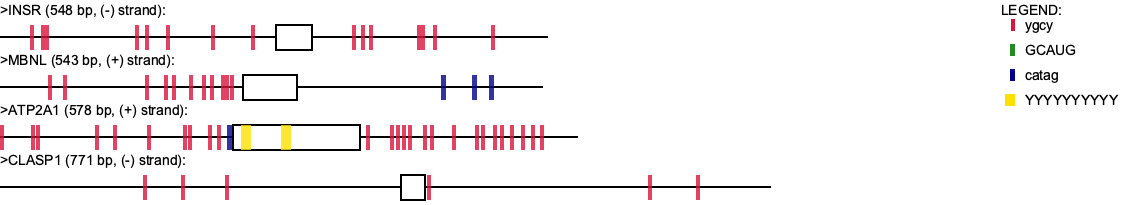
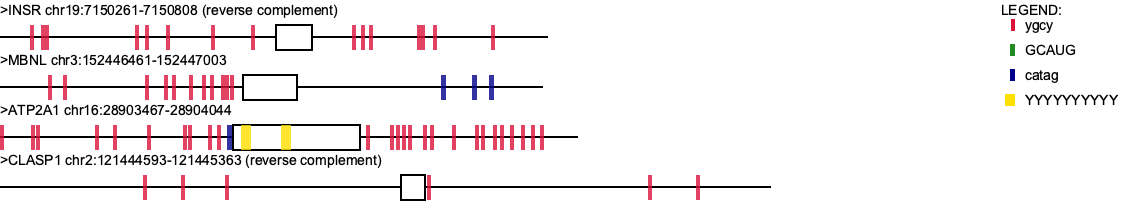
20250301

diff --git a/motif-mark.py b/motif-mark.py
@@ -14,27 +14,28 @@ FONTSIZE = 14
 HEADING_OFFSET = ROW_HEIGHT//5
 ROW_OFFSET = -ROW_HEIGHT//2 
 MARKDIMS = (4, EXON_HEIGHT)
+
 COLORS = [
-    (220/255, 20/255, 60/255),    # Crimson
-    (34/255, 139/255, 34/255),    # Forest Green
-    (0, 0, 139/255),      # Dark Blue
-    (255/255, 223/255, 0),    # Gold
-    (0, 255/255, 255/255),    # Cyan
-    (255/255, 0, 255/255),    # Magenta
-    (255/255, 165/255, 0),    # Orange
-    (128/255, 0, 128/255),    # Purple
-    (0, 128/255, 0),      # Dark Green
-    (186/255, 85/255, 211/255),   # Medium Orchid
-    (255/255, 105/255, 180/255),  # Hot Pink
-    (255/255, 99/255, 71/255),    # Tomato Red
-    (0, 128/255, 128/255),    # Teal
-    (255/255, 192/255, 203/255),  # Light Pink
-    (255/255, 255/255, 0),    # Yellow
-    (240/255, 128/255, 128/255),  # Light Coral
-    (0, 0, 255/255),      # Blue
-    (0, 255/255, 0),      # Green
-    (255/255, 0, 0),      # Red
-    (255/255, 228/255, 181/255),  # Moccasin
+    (220/255, 20/255, 60/255),      # Crimson
+    (34/255, 139/255, 34/255),      # Forest Green
+    (0, 0, 139/255),                # Dark Blue
+    (255/255, 223/255, 0),          # Gold
+    (0, 255/255, 255/255),          # Cyan
+    (255/255, 0, 255/255),          # Magenta
+    (255/255, 165/255, 0),          # Orange
+    (128/255, 0, 128/255),          # Purple
+    (0, 128/255, 0),                # Dark Green
+    (186/255, 85/255, 211/255),     # Medium Orchid
+    (255/255, 105/255, 180/255),    # Hot Pink
+    (255/255, 99/255, 71/255),      # Tomato Red
+    (0, 128/255, 128/255),          # Teal
+    (255/255, 192/255, 203/255),    # Light Pink
+    (255/255, 255/255, 0),          # Yellow
+    (240/255, 128/255, 128/255),    # Light Coral
+    (0, 0, 255/255),                # Blue
+    (0, 255/255, 0),                # Green
+    (255/255, 0, 0),                # Red
+    (255/255, 228/255, 181/255),    # Moccasin
 ]
 
 
@@ -44,7 +45,7 @@ DEGEN_BASES = {
     'C': '[C]',     'c': '[c]',
     'G': '[G]',     'g': '[g]',
     'U': '[U]',     'u': '[u]',
-    'R': '[AG]',    'r': '[ag]',        # Purine
+    'R': '[AG]',    'r': '[ag]',       # Purine
     'Y': '[CT]',    'y': '[ct]',       # Pyrimidine
     'S': '[GC]',    's': '[gc]',       # Strong 
     'W': '[AT]',    'w': '[at]',       # Weak
@@ -138,6 +139,46 @@ def get_mots(mFile: str) -> tuple:
 
     return (motifs, revmots)
 
+def get_recs(faFile,motifs,revmots) -> dict:
+    currGene=''
+    currSeq=''
+    recs = {}
+    with open(faFile, 'r') as f:
+
+        line = f.readline().strip()
+
+        while line:
+            header = line
+            line = line[1:].split()
+            currGene = line[0]
+            loc = line[1]
+            
+            line = f.readline().strip()
+
+            while line[0] != ">":
+                currSeq += line
+
+                line = f.readline().strip()
+
+                if not line: 
+                    break
+
+            chrom,pos = loc.split(":")
+            length = len(currSeq)
+            
+
+            if "rev" in header:
+                currMots = revmots
+            else:
+                currMots = motifs
+
+            recs[currGene] = Record(header,currSeq, chrom,pos,length,currGene, currMots)
+
+            # print(recs[currGene])
+            currSeq = ''
+
+    return recs
+
 class Record():
     def __init__(self, 
                  header: str,
@@ -157,17 +198,17 @@ class Record():
         self.gname = gname                          # name of gene
         self.lines = self.get_lines()
         self.motifs = self.find_motifs(motifs)      # list of motif objects
-        
-
+        # self.title = f'>{gname} ({length} bp, ({self.strand}) strand):'
+        self.title = f'{header}'
 
     def __str__(self):
-        # return f'{self.header}\n{self.gname}, ' \
-        # f'{self.pos}, ' \
-        # f'{self.length}'
 
-        # return f'{self.header}:'
+        words = f'{self.header}:'
 
-        return f'>{self.gname} ({self.length} bp, ({self.strand}) strand):'
+        for mot in self.motifs:
+            words += f'\n{mot}\t{len(mot)}'
+
+        return words
         
                 
     def get_lines(self):
@@ -191,18 +232,21 @@ class Record():
 
     def draw(self, row: int, ctx):
         '''
-        _summary_
+        Draws record to an existing context object, returns the new row value
 
         Args:
-            row (int): _description_
-            ctx (_type_): _description_
+            row (int): counter for current row in image
+            ctx (_type_): cairo.Context object
+
+        Returns:
+            new row value after drawing record
         '''
 
         # Write label
         x = INDENT
         y = row*ROW_HEIGHT - HEADING_OFFSET + ROW_OFFSET 
         ctx.move_to(x,y)
-        ctx.show_text(str(self),)
+        ctx.show_text(self.title)
 
         for i,line in enumerate(self.lines):
             x2 = INDENT
@@ -268,49 +312,6 @@ class Motif():
         return f'''{self.seq}, {self.length}, {self.start}'''
 
 
-def get_recs(faFile,motifs,revmots) -> dict:
-    currGene=''
-    currSeq=''
-    recs = {}
-    with open(faFile, 'r') as f:
-
-        line = f.readline().strip()
-
-        while line:
-            header = line
-            line = line[1:].split()
-            currGene = line[0]
-            loc = line[1]
-            
-            line = f.readline().strip()
-
-            while line[0] != ">":
-                currSeq += line
-
-                line = f.readline().strip()
-
-                if not line: 
-                    break
-
-            chrom,pos = loc.split(":")
-
-            # pos = tuple(int(i) for i in pos.split("-"))
-
-            # length = pos[1] - pos[0]
-            length = len(currSeq)
-            
-
-            if "rev" in header:
-                currMots = revmots
-            else:
-                currMots = motifs
-
-            recs[currGene] = Record(header,currSeq, chrom,pos,length,currGene, currMots)
-
-            currSeq = ''
-
-    return recs
-
 ### Main ###
 
 args = get_args()
@@ -327,7 +328,9 @@ markcolors.update({seq:color for seq,color in zip(list(revmots), COLORS[:len(mot
 
 recs = get_recs(faFile,motifs,revmots)
 
+
 numlines = sum([len(recs[rec].lines) for rec in recs])
+
 
 with cairo.ImageSurface(cairo.FORMAT_ARGB32,
                         IMAGE_WIDTH + 10*FONTSIZE, 
@@ -364,18 +367,10 @@ with cairo.ImageSurface(cairo.FORMAT_ARGB32,
         ctx.fill()
         ctx.set_source_rgba(0,0,0,1)
 
-
         x = IMAGE_WIDTH + 25
         y = (row+i)*ROW_HEIGHT//2 + 5
         ctx.move_to(x,y)
         ctx.show_text(f'{motif}')
-
-        # x += 13*FONTSIZE - 2*ROW_HEIGHT
-        # y += 1
-        # ctx.set_source_rgba(*markcolors[motif])
-        # ctx.rectangle(x,y,len(motif),EXON_HEIGHT//2)
-        # ctx.fill()
-        # ctx.set_source_rgba(0,0,0,1)
 
     # write to file
     surface.write_to_png(f"{basename}.png")

diff --git a/README.md b/README.md
@@ -1,2 +1,24 @@
 # motif-mark
-for BI625 motif mark assignment
+
+```motif-mark.py``` is a simple python program that visualizes motifs in nucleotide sequences. It takes two inputs:
+1. a FASTA file with read lengths $\leq$ 1000 bp (introns in lowercase, exons in uppercase)
+2. a text file with the motif sequences of $\leq$ 10 bp per motif (one motif per line)
+
+
+### Requirements
+
+This program requires the ```pycairo``` package and ```python3.12```
+
+
+### Usage
+
+This program can be called from the command line using -f and -m arguments containing the location of the the FASTA and motifs files respectively. The output, a PNG image, goes to your current directory.
+
+```
+python motif-mark.py -f <path_to_fasta_file> -m <path_to_motifs_file>
+
+```
+
+
+
+
